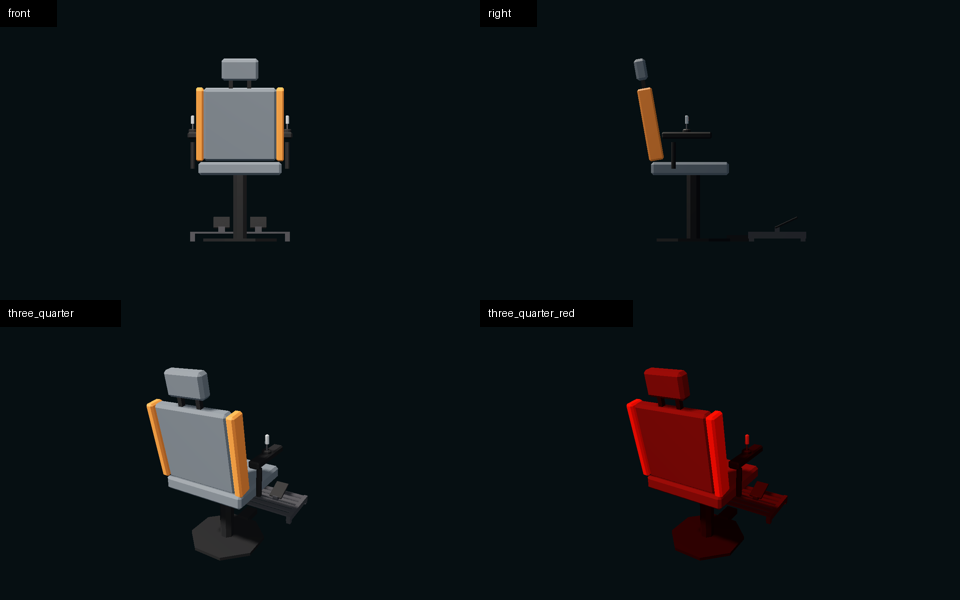
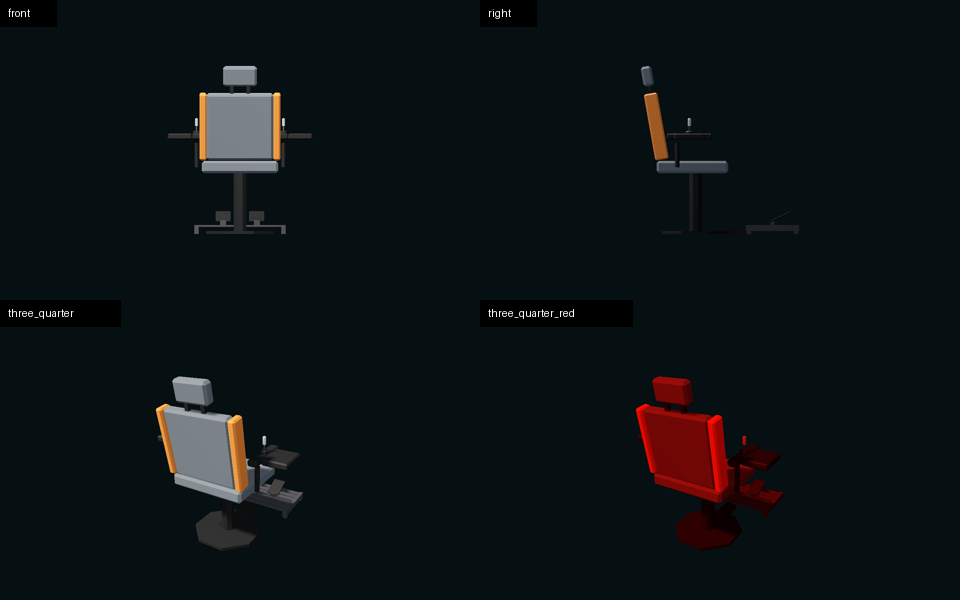
M18.1 · pilot_seat armrest switch panels and four toggle anchors
Refs #685

diff --git a/tools/cadkit/scenes/pilot_seat.py b/tools/cadkit/scenes/pilot_seat.py
@@ -13,10 +13,11 @@ import build123d as bd
 
 from cadkit.solids import Solid, at, box, expect, bbox_mm, export_solids_glb
 from cadkit.library import entry, out_dir, res, scene_module, scene_path, write_entry
+from cadkit import mount
 from cadkit.tscn import Scene, Xform
 
 SLUG, GROUP = "pilot_seat", "furniture"
-USES: list[str] = ["operator_seat", "joystick"]
+USES: list[str] = ["operator_seat", "joystick", "lit_toggle"]
 BUDGET = 3000
 
 HEAD_W, HEAD_H, HEAD_T, HEAD_GAP = 220.0, 130.0, 70.0, 50.0   # gap between the backrest top and the headrest
@@ -26,6 +27,28 @@ FOOT_Y, SLAT_T, RAIL_W = 60.0, 12.0, 30.0                      # grating top hei
 PEDAL_X, PEDAL_Z, PEDAL_TILT = 110.0, -560.0, 25.0
 JOY_Z = 40.0                                                   # joystick centre along the armrest (Z), mm
 ARM_TOP = 660.0                                                # operator_seat armrest top, mm
+PANEL_W, PANEL_L, PANEL_T = 160.0, 200.0, 40.0                 # switch panel beside each joystick: outboard width, length (Z), thickness
+PANEL_EDGE = 8.0                                               # the panel's chamfer
+TOG_INNER, TOG_GAP = 24.0, 12.0                                # panel edge to the first toggle (clears the stick's sweep), toggle to toggle
+JOY_TILT = 20.0                                                # the joystick's tilt either way, degrees
+REACH_MM = 750.0                                               # a toggle lies this close to the resting hand at most
+MIN_MARGIN = 8.0                                               # toggle footprint inside its panel by at least this
+HAND_UP = 80.0                                                 # resting hand above the armrest top (on the grip)
+# mount anchors: (name, side, 0 = inboard toggle / 1 = outboard toggle)
+MOUNTS = [("ExternalLightSwitch", 1, 0), ("ExternalColourSwitch", 1, 1),
+          ("CabinLightSwitch", -1, 0), ("CabinColourSwitch", -1, 1)]
+MOUNT_GAP = mount.stand_off(0.0)
+
+
+def arm_edge() -> float:
+    """X of the armrest's outboard face."""
+    return scene_module("operator_seat").ARM_X + 30
+
+
+def toggle_xz(sx: int, idx: int) -> tuple[float, float]:
+    """Centre (X, Z) of a toggle's mount on the panel beside the joystick at side `sx`."""
+    tw = entry("lit_toggle")["footprint_mm"][0]
+    return sx * (arm_edge() + TOG_INNER + tw / 2 + idx * (tw + TOG_GAP)), JOY_Z
 
 
 def seat_solids() -> list[Solid]:
@@ -63,6 +86,10 @@ def solids() -> list[Solid]:
         pedals.append(at(plate, sx * PEDAL_X, FOOT_Y + 55, PEDAL_Z))
         pedal_posts.append(at(box(40, 32, 30, base_z=False), sx * PEDAL_X, FOOT_Y + 16, PEDAL_Z + 55))
 
+    # switch panels: the armrest widened outboard of each joystick, flush with the armrest top
+    panels = [at(box(PANEL_W, PANEL_T, PANEL_L, chamfer_mm=PANEL_EDGE, base_z=False),
+                 sx * (arm_edge() + PANEL_W / 2), ARM_TOP - PANEL_T / 2, JOY_Z) for sx in (-1, 1)]
+
     foot = rails + slats + legs + [spine]
     # --- checks ---
     seat = seat_solids()
@@ -98,6 +125,33 @@ def solids() -> list[Solid]:
         expect(JOY_Z + jr < back_z0 - 40, f"joystick ({JOY_Z + jr:.0f} mm) well forward of the backrest ({back_z0:.0f} mm)")
     stand = entry("joystick")["stand_out_mm"]
     expect(ARM_TOP + stand < back_top, f"joystick tip ({ARM_TOP + stand:.0f} mm) lower than the backrest top")
+    # switch panels: flush with the armrest top, clear of the joystick boot and sweep, toggles inside with margin, in reach
+    tfp = entry("lit_toggle")["footprint_mm"]
+    t_out = entry("lit_toggle")["stand_out_mm"]
+    for pnl in panels:
+        pl2, ph2 = bbox_mm(pnl)
+        sx = 1 if pl2[0] > 0 else -1
+        expect(abs(ph2[1] - ARM_TOP) < 0.5, f"panel top at {ph2[1]:.0f}, flush with the armrest top {ARM_TOP}")
+        inner = pl2[0] if sx > 0 else -ph2[0]
+        expect(abs(inner - arm_edge()) < 0.5, "panel meets the armrest's outboard face")
+        expect(not any(_overlap(pnl, q) for q in seat_sh), "panel clear of the seat")
+        cx = sx * om.ARM_X
+        expect(inner - abs(cx) >= jr + 4, "panel clear of the joystick boot")
+        for name, msx, idx in MOUNTS:
+            if msx != sx:
+                continue
+            tx, tz = toggle_xz(sx, idx)
+            x0, x1, z0, z1 = tx - tfp[0] / 2, tx + tfp[0] / 2, tz - tfp[1] / 2, tz + tfp[1] / 2
+            m = min(x0 - pl2[0], ph2[0] - x1, z0 - pl2[2], ph2[2] - z1)
+            expect(m >= MIN_MARGIN, f"{name}: lit_toggle footprint {tfp[0]:.0f} x {tfp[1]:.0f} mm inside the panel with {m:.1f} mm margin (min {MIN_MARGIN})")
+            # the stick's full sweep: a cone of half-angle JOY_TILT above the boot; the toggle's top is the widest slice
+            top = t_out + MOUNT_GAP
+            sweep_r = jr + top * math.tan(math.radians(JOY_TILT))
+            near = min(abs(x0 - cx), abs(x1 - cx))
+            expect(near > sweep_r + 2, f"{name}: clear of the {sweep_r:.0f} mm joystick sweep at its height ({near:.0f} mm away)")
+            hand = (cx, ARM_TOP + HAND_UP, JOY_Z)
+            far = max(math.dist(hand, (px, ARM_TOP + MOUNT_GAP + t_out, pz)) for px in (x0, x1) for pz in (z0, z1))
+            expect(far <= REACH_MM, f"{name}: within the {REACH_MM:.0f} mm reach of the resting hand ({far:.0f} mm)")
     # pedals on the footrest, clear of the seat
     for pl_ in pedals + pedal_posts:
         lo, hi = bbox_mm(pl_)
@@ -113,13 +167,20 @@ def solids() -> list[Solid]:
             expect(not _overlap(s, q), "grating clear of the seat")
     return ([Solid(head, "interior_panel")] + [Solid(p, "trim_black") for p in posts]
             + [Solid(s, "hull_metal") for s in rails + slats + legs] + [Solid(spine, "trim_black")]
-            + [Solid(p, "trim_black") for p in pedals] + [Solid(p, "hull_metal") for p in pedal_posts])
+            + [Solid(p, "trim_black") for p in pedals + panels] + [Solid(p, "hull_metal") for p in pedal_posts])
 
 
 def _overlap(a: bd.Shape, b: bd.Shape) -> bool:
     al, ah = bbox_mm(a)
     bl, bh = bbox_mm(b)
     return all(al[i] < bh[i] - 0.01 and bl[i] < ah[i] - 0.01 for i in range(3))
+
+
+def mount_xform(sx: int, idx: int) -> Xform:
+    """A toggle's mount: its back on the panel top (set off by the mount gap), its face (+Z) up and its lamp side (+Y)
+    toward the sitter (+Z), so the lamp reads above the switch from the eye."""
+    x, z = toggle_xz(sx, idx)
+    return Xform.frame((-1, 0, 0), (0, 0, 1), (0, 1, 0), origin=(x / 1000, (ARM_TOP + MOUNT_GAP) / 1000, z / 1000))
 
 
 def joystick_xform(sx: int) -> Xform:
@@ -137,20 +198,26 @@ def build() -> dict:
     s.node("SitPoint")
     s.node("ThrottleJoystick", instance=scene_path("joystick"), props={"transform": joystick_xform(-1)})
     s.node("FlightJoystick", instance=scene_path("joystick"), props={"transform": joystick_xform(1)})
+    for name, sx, idx in MOUNTS:
+        s.node(name, props={"transform": mount_xform(sx, idx)})
     s.write(d / f"{SLUG}.tscn")
     tris = rep["triangles"] + entry("operator_seat")["triangles"] + 2 * entry("joystick")["triangles"]
     expect(tris <= BUDGET, f"furniture within the {BUDGET} triangle budget ({tris})")
     oe = entry("operator_seat")
+    mounts = [mount.record(n, "lit_toggle", MOUNT_GAP, "armrest panel top") for n, _, _ in MOUNTS]
     write_entry(GROUP, SLUG, {
         "kind": "furniture",
         "summary": "Pilot's seat: the operator seat with a headrest, a throttle joystick (left armrest) and a planes-and-rudder "
-                   "joystick (right armrest), and two decorative pedals on an open grating footrest. Faces -Z.",
+                   "joystick (right armrest), two decorative pedals on an open grating footrest, and a switch panel on each armrest "
+                   "with two lit_toggle mounts: anchors ExternalLightSwitch, ExternalColourSwitch (right), CabinLightSwitch, "
+                   "CabinColourSwitch (left); toggle face up, lamp toward the sitter. Faces -Z.",
         "tags": ["seat", "chair", "pilot", "joystick", "pedals", "station"],
         "scene": res(d / f"{SLUG}.tscn"),
         "behaviour": {"script": None,
                       "bind_on_parent": "StationSeat or a subclass (PilotSeat); sit_point = <instance>/SitPoint; "
                                         "a JoystickIndicator on ThrottleJoystick and FlightJoystick (stick = Frame/Stick)"},
-        "footprint_mm": [max(oe["footprint_mm"][0], 2 * FOOT_X), -FOOT_Z0 + 340],
+        "footprint_mm": [max(oe["footprint_mm"][0], 2 * FOOT_X, 2 * (arm_edge() + PANEL_W)), -FOOT_Z0 + 340],
+        "mounts": mounts,
         "mount": "on the floor at Y=0, centred on the pedestal; occupant faces -Z; footrest ahead",
         "seated_eye_height_m": oe["seated_eye_height_m"],
         "uses": list(USES),
